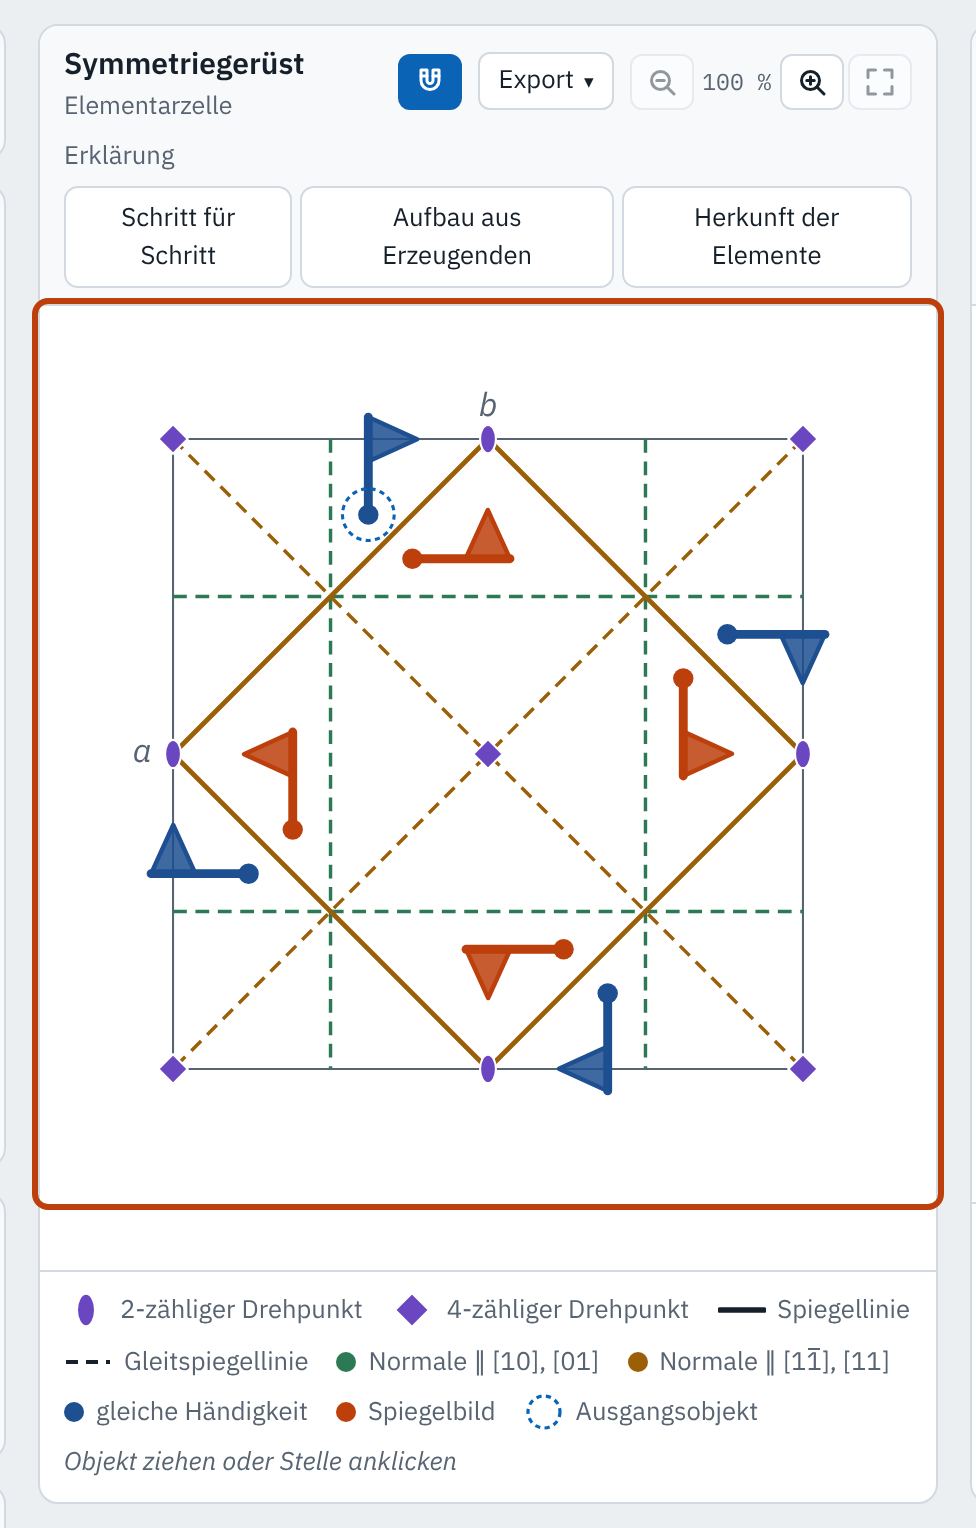
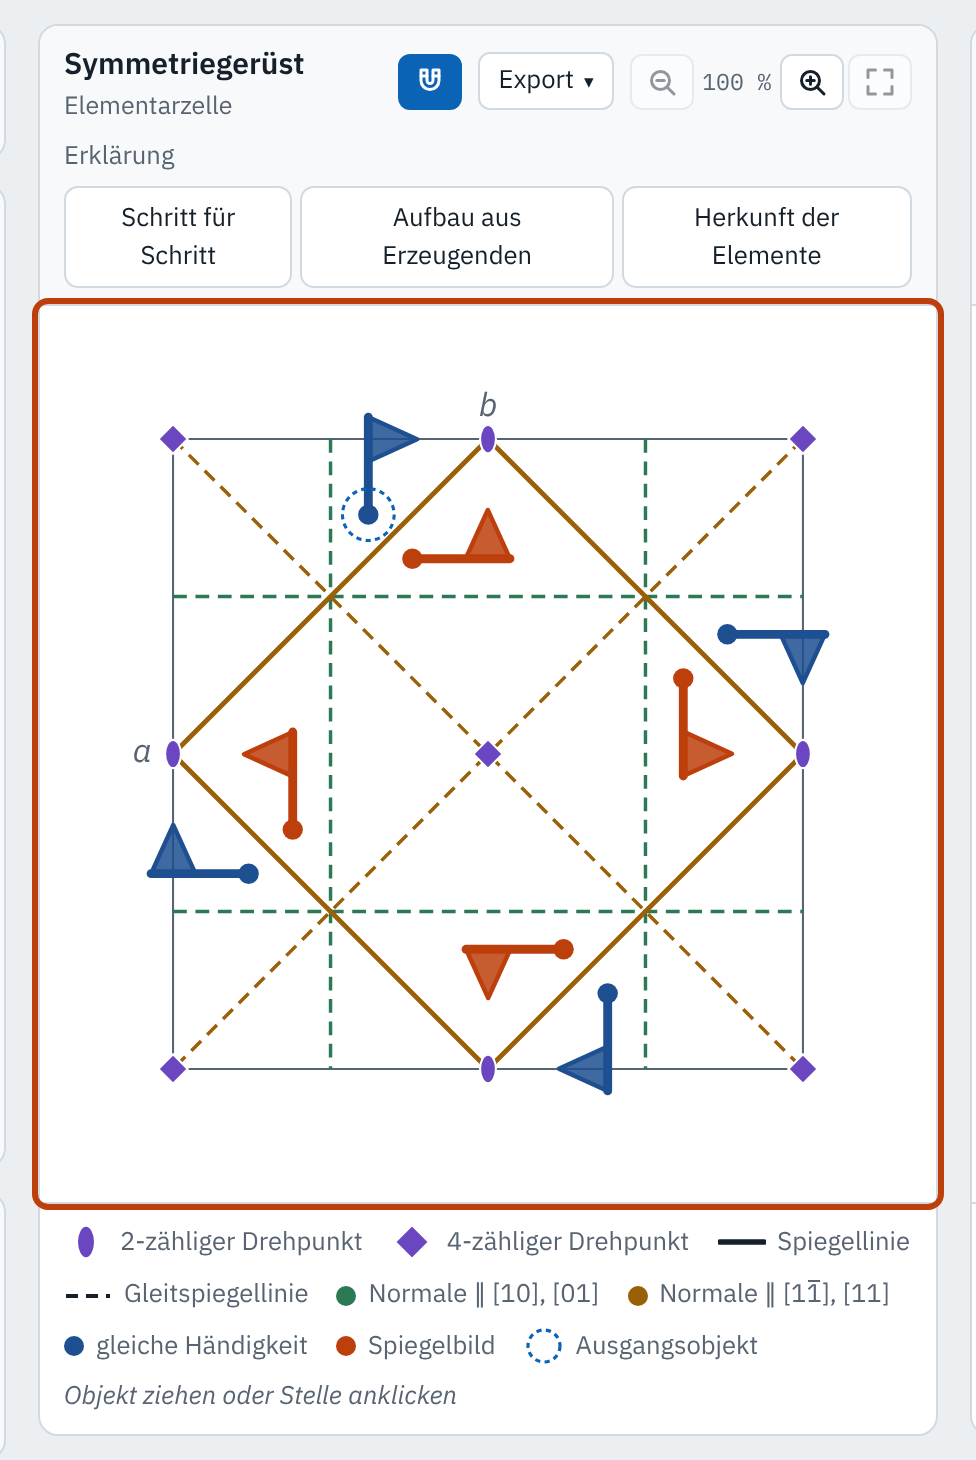
Review: Legende von Tafel A ohne leeren Streifen, ITA einheitlich
Claude-Session: https://claude.ai/code/session_01L8SY96VTcRYuEB7LDLyNSV

diff --git a/js/zustand.js b/js/zustand.js
@@ -192,7 +192,7 @@ export function startzustand() {
     einrasten: true,
     zoomA: 1, // Zoom von Tafel A in allen Modi (ZOOM_A_BEREICH, zoomAusschnitt in zeichnung.js; vorher die Lupe)
     ausschnitt: { eg: null, struktur: null, entwurf: null }, // Mitte des Ausschnitts von Tafel A je Modus, nur im Speicher
-    orbit: false, // Bilder rund um die Zelle (wie in der ITA), Rand ORBIT_RAND in zeichnung.js
+    orbit: false, // Bilder rund um die Zelle (wie in ITA), Rand ORBIT_RAND in zeichnung.js
     musterElemente: false, // Symmetrieelemente in Tafel B
     herkunft: false, // „Herkunft der Elemente“: ein gewähltes Element zeigt, woher es kommt
     erkl: null, // gewähltes Element (Schlüssel aus herkunft.js, z. B. „m;1/4,0;0,1“)

diff --git a/index.html b/index.html
@@ -33,6 +33,9 @@
   .figs > .panel > .bild { grid-row: 2; }
   .figs > .panel > .erklleiste, .figs > .panel > .panel-foot { grid-row: 3; align-self: start; }
   .figs > .panel > .legend { grid-row: 4; }
+  /* ohne Erklärleiste reicht die Legende von Tafel A bis unter die Zeichnung (sonst ein leerer Streifen in Höhe der
+     Fusszeile von Tafel B) */
+  .figs > .p-a:not(:has(> .erklleiste:not([hidden]))) > .legend { grid-row: 3 / span 2; }
 }
 .tabs button:disabled { opacity: 0.5; cursor: not-allowed; }
 .lg .sym-icon { flex: none; }

diff --git a/CLAUDE.md b/CLAUDE.md
@@ -190,7 +190,8 @@ für diese App gilt.
   - **Tafeln auf gleicher Höhe** (Thomas, 13.11.2026: „Das sieht einfach unschön aus“): Nebeneinander (ab 1000 px) teilen
     beide Tafeln die Zeilen Kopf, Zeichnung, Leiste bzw. Fusszeile und Legende über ein CSS-Subgrid (`.figs` im `<style>` von
     `index.html`, Leitfaden Abschn. 5.1 erlaubt eine eigene Anordnung). Sonst begann die Zeichnung in Tafel A tiefer, weil ihr
-    Kopf mit der Erklärungsauswahl zweizeilig ist.
+    Kopf mit der Erklärungsauswahl zweizeilig ist. Ohne Erklärleiste reicht die Legende von Tafel A über die Zeile der
+    Fusszeile von Tafel B (sonst ein leerer Streifen; Review).
   - **Kein Hinweis „Füllen und Zoom ruhen“** in der Legende (Thomas, 13.11.2026): Die gesperrten Zoomknöpfe zeigen es, den
     Grund für „Füllen“ nennt die Seitenleiste. „Bilder rund um die Zelle“ ohne „(wie ITA)“; der Tooltip nennt die ITA.
 - **Bilder:** nur selbst erzeugte, keine Fotos. Escher nur beschreiben und verlinken (Werke geschützt).

diff --git a/README.md b/README.md
@@ -96,7 +96,7 @@ Der Zustand steht lesbar in der Adresse, z. B. `#m=eg&g=p4gm&x=0.12&y=0.31`. Ges
 | `form` | Form des Objekts | **`fahne`**, `komma` (Kreis mit Komma wie ITA) |
 | `og` | Grösse des Objekts (Faktor; im Gitter, in beiden Tafeln im selben Verhältnis zur Zelle) | 0.5–3, **1** |
 | `rast` | Einrasten beim Ziehen (in allen Modi): auf spezielle Lagen („Ebenengruppen“, „Muster entwerfen“), auf Zwölftel der Zelle und 15° („Gitter und Basis“, „Muster entwerfen“) | `0`, **`1`** |
-| `orbit` | Bilder rund um die Zelle (Rand wie in den ITA-Diagrammen) | **`0`**, `1` |
+| `orbit` | Bilder rund um die Zelle (wie in ITA) | **`0`**, `1` |
 | `fuell` | asymmetrische Einheit gefüllt und vervielfältigt (in allen Modi) | **`0`**, `1` |
 | `farb` | nach Blickrichtung färben (in allen Modi) | `0`, **`1`** |
 | `mel` | Symmetrieelemente im Muster (in allen Modi) | **`0`**, `1` |
